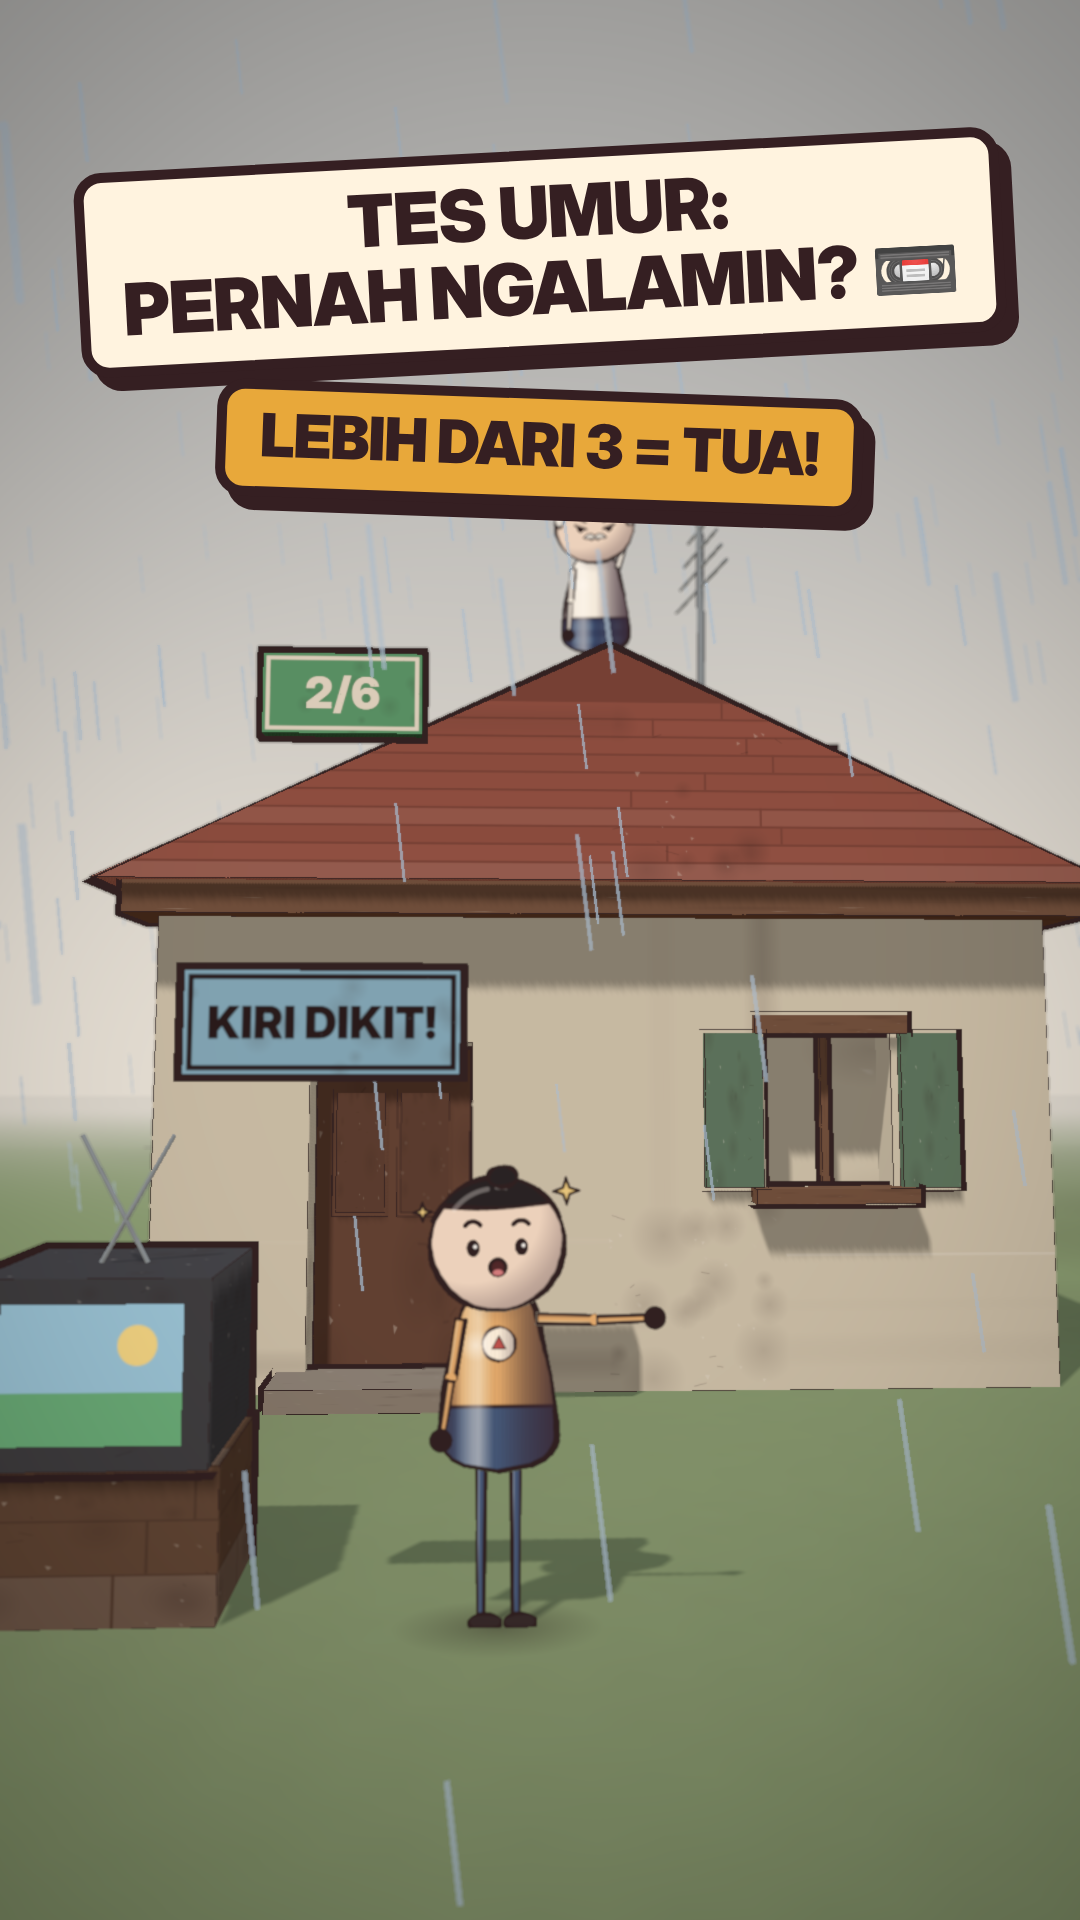
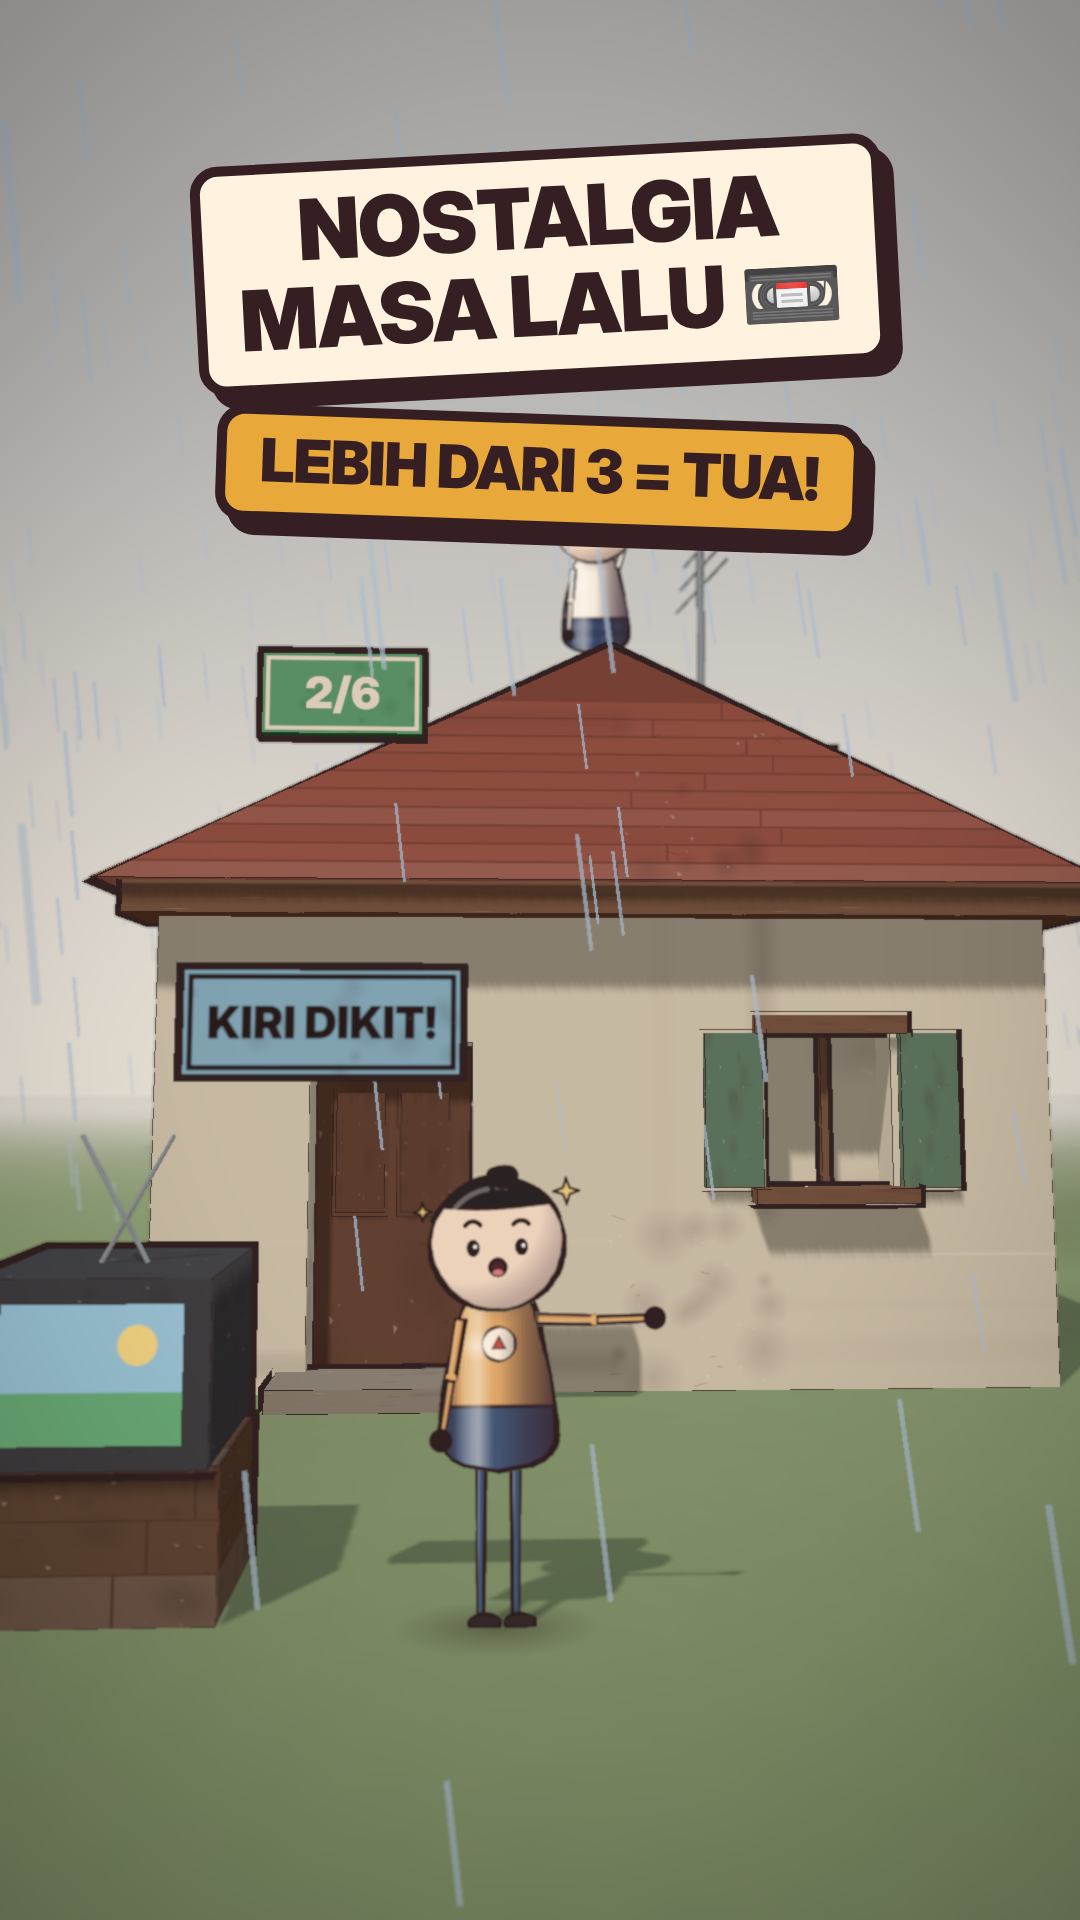
Tes umur: thumbnail text 'Nostalgia masa lalu'
Claude-Session: https://claude.ai/code/session_01EsaXenu6uBtnQ61DJCHAmA

Changed region(s): [[0.0611, 0.0625, 0.9472, 0.3125]]

diff --git a/src/Video.jsx b/src/Video.jsx
@@ -224,8 +224,8 @@ export const Story = ({lang, captions = true}) => {
 };
 
 const TH = {
-  id: {top: 'TES UMUR:\nPERNAH NGALAMIN? 📼', mid: 'LEBIH DARI 3 = TUA!', bot: ''},
-  en: {top: 'TES UMUR:\nPERNAH NGALAMIN? 📼', mid: 'LEBIH DARI 3 = TUA!', bot: ''},
+  id: {top: 'NOSTALGIA\nMASA LALU 📼', mid: 'LEBIH DARI 3 = TUA!', bot: ''},
+  en: {top: 'NOSTALGIA\nMASA LALU 📼', mid: 'LEBIH DARI 3 = TUA!', bot: ''},
 };
 const THUMB = (EVt) => ({t: EVt.kiri + 0.6, loc: 'rumah', pos: [0.0, 1.8, 1.2], look: [0.2, 2.3, -4.5]});
 const fit = (txt, size) => { const n = Math.max(...txt.split('\n').map((l) => [...l].length)); return n > 15 ? Math.round(size * 15.5 / n) : size; };

diff --git a/videos/tes-umur/source/Video.jsx b/videos/tes-umur/source/Video.jsx
@@ -224,8 +224,8 @@ export const Story = ({lang, captions = true}) => {
 };
 
 const TH = {
-  id: {top: 'TES UMUR:\nPERNAH NGALAMIN? 📼', mid: 'LEBIH DARI 3 = TUA!', bot: ''},
-  en: {top: 'TES UMUR:\nPERNAH NGALAMIN? 📼', mid: 'LEBIH DARI 3 = TUA!', bot: ''},
+  id: {top: 'NOSTALGIA\nMASA LALU 📼', mid: 'LEBIH DARI 3 = TUA!', bot: ''},
+  en: {top: 'NOSTALGIA\nMASA LALU 📼', mid: 'LEBIH DARI 3 = TUA!', bot: ''},
 };
 const THUMB = (EVt) => ({t: EVt.kiri + 0.6, loc: 'rumah', pos: [0.0, 1.8, 1.2], look: [0.2, 2.3, -4.5]});
 const fit = (txt, size) => { const n = Math.max(...txt.split('\n').map((l) => [...l].length)); return n > 15 ? Math.round(size * 15.5 / n) : size; };
